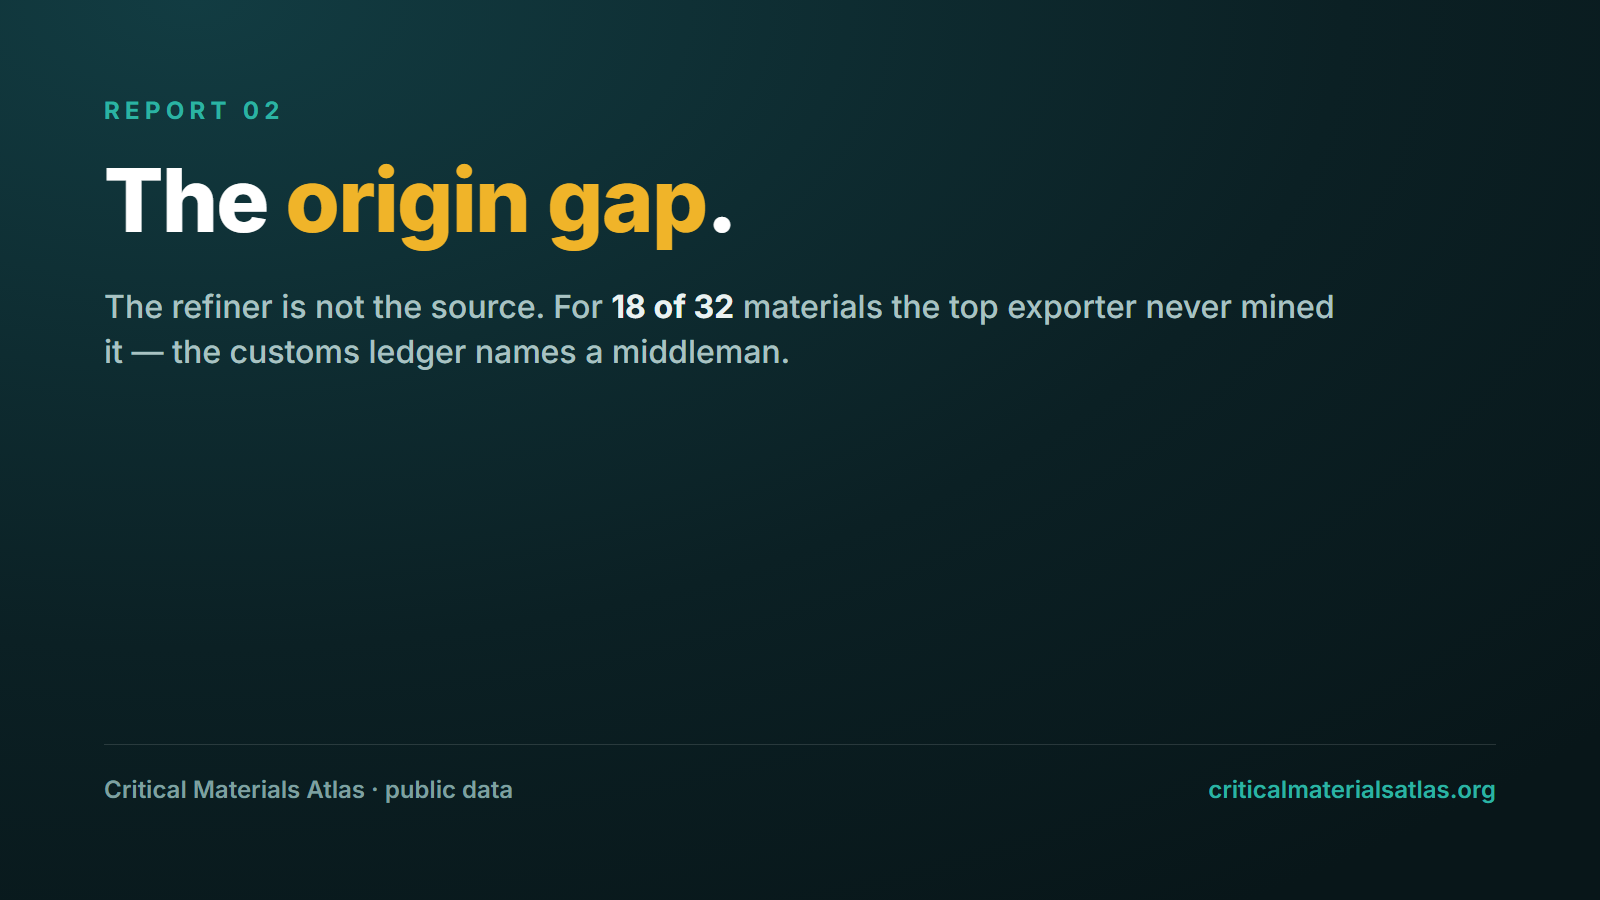
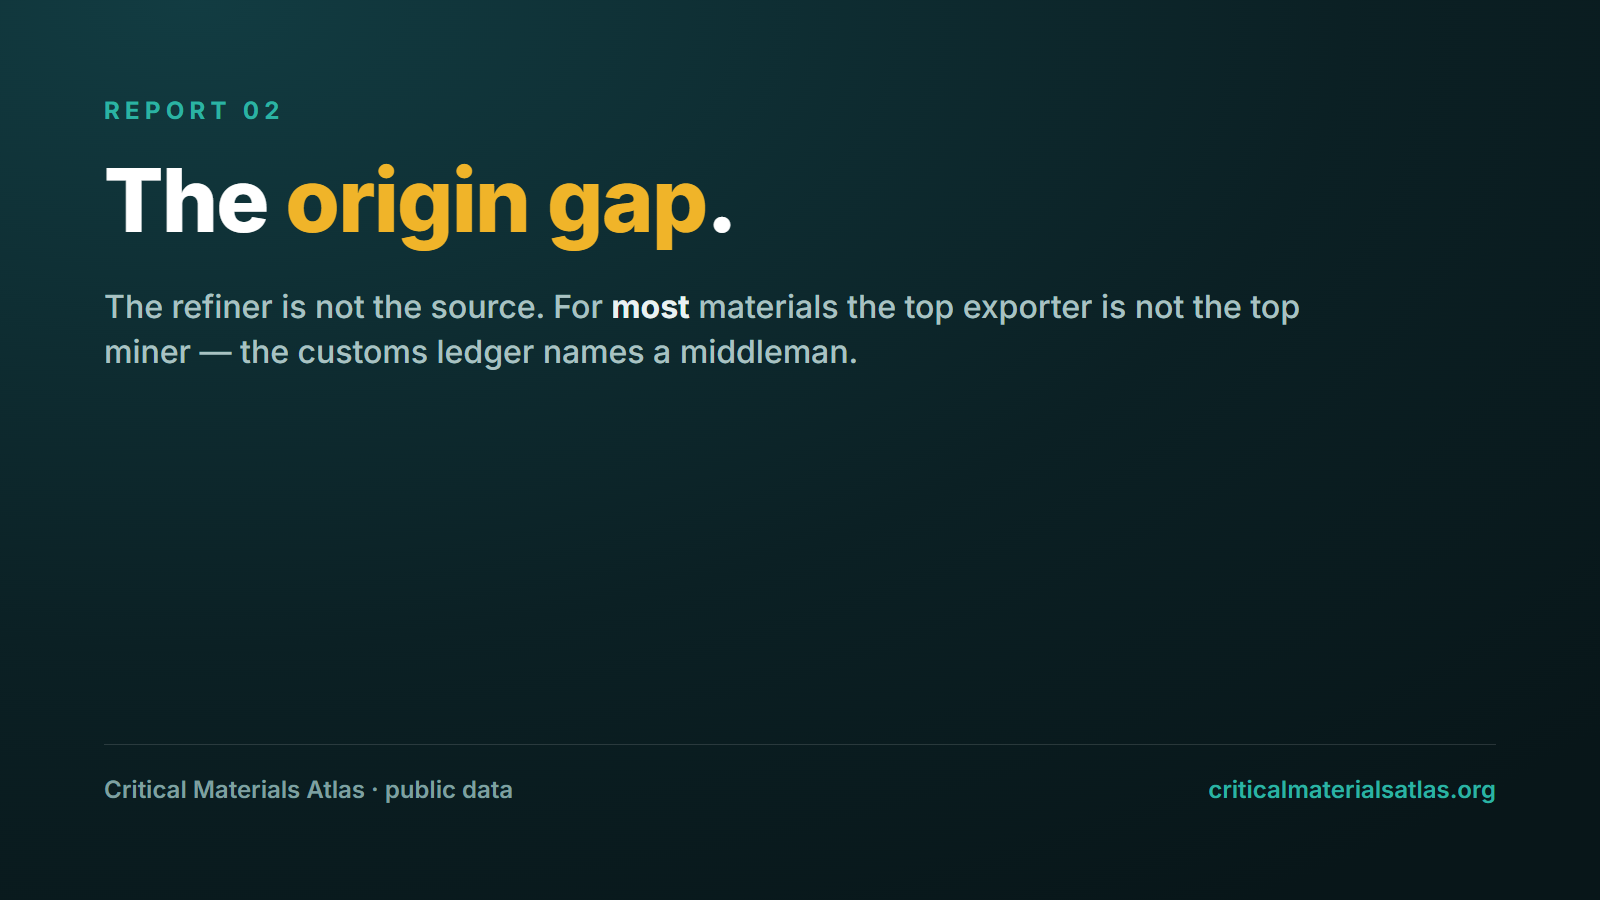
Share cards: the chokepoint and origin-gap headlines in words, not counts
The chokepoint card said 4 of 58 chokepoints are geological (the map now has 5); the Report 02
card said 18 of 32 materials (the store has 16 of the atlas materials tested, 35 in the widened
set). Both now say it in words: 'only a few', 'most'. The fact check now covers the share cards,
which are the link previews of live pages.

Changed region(s): [[0.0625, 0.3111, 0.8438, 0.4044]]

diff --git a/share/card-chokepoint.html b/share/card-chokepoint.html
@@ -8,4 +8,4 @@
  .sub b{color:#eaf2f2;font-weight:700}
  .spacer{flex:1}
  .foot{display:flex;justify-content:space-between;align-items:center;font-size:24px;color:#7fa0a0;font-weight:600;border-top:1px solid rgba(255,255,255,.13);padding-top:30px}
- .foot .u{color:#2bb3a3}</style></head><body><div class="card"><div class="eyebrow">The Chokepoint Map</div><div class="h">Only <span class="amber">4 of 58</span><br>chokepoints are geological.</div><div class="sub">The other <b>54</b> are <i>made</i> — by processing capability, policy, or the physics of a smelter. Anything made can be rebuilt.</div><div class="spacer"></div><div class="foot"><span>Critical Materials Atlas · public data</span><span class="u">criticalmaterialsatlas.org</span></div></div></body></html>
+ .foot .u{color:#2bb3a3}</style></head><body><div class="card"><div class="eyebrow">The Chokepoint Map</div><div class="h">Only <span class="amber">a few</span><br>chokepoints are geological.</div><div class="sub">The rest are <i>made</i> — by processing capability, policy, or the physics of a smelter. Anything made can be rebuilt.</div><div class="spacer"></div><div class="foot"><span>Critical Materials Atlas · public data</span><span class="u">criticalmaterialsatlas.org</span></div></div></body></html>

diff --git a/share/card-r02.html b/share/card-r02.html
@@ -8,4 +8,4 @@
  .sub b{color:#eaf2f2;font-weight:700}
  .spacer{flex:1}
  .foot{display:flex;justify-content:space-between;align-items:center;font-size:24px;color:#7fa0a0;font-weight:600;border-top:1px solid rgba(255,255,255,.13);padding-top:30px}
- .foot .u{color:#2bb3a3}</style></head><body><div class="card"><div class="eyebrow">Report 02</div><div class="h">The <span class="amber">origin gap</span>.</div><div class="sub">The refiner is not the source. For <b>18 of 32</b> materials the top exporter never mined it — the customs ledger names a middleman.</div><div class="spacer"></div><div class="foot"><span>Critical Materials Atlas · public data</span><span class="u">criticalmaterialsatlas.org</span></div></div></body></html>
+ .foot .u{color:#2bb3a3}</style></head><body><div class="card"><div class="eyebrow">Report 02</div><div class="h">The <span class="amber">origin gap</span>.</div><div class="sub">The refiner is not the source. For <b>most</b> materials the top exporter is not the top miner — the customs ledger names a middleman.</div><div class="spacer"></div><div class="foot"><span>Critical Materials Atlas · public data</span><span class="u">criticalmaterialsatlas.org</span></div></div></body></html>

diff --git a/check_facts.py b/check_facts.py
@@ -22,8 +22,8 @@ browser, but compares nothing). A fact stated in words no phrase here matches. A
 registered: when a number drifts between pages, add the fact here in the same commit as the fix.
 
 DATED RECORDS keep their numbers by rule (a published document is not rewritten; it gets a dated
-note): the reports, the technical note, the review, the updates log, the share cards and the social
-posts. They are listed in DATED and not checked. Anything else that legitimately differs goes in ALLOW
+note): the reports, the technical note, the review, the updates log and the social posts. The
+share cards are checked: they are the link previews of live pages. They are listed in DATED and not checked. Anything else that legitimately differs goes in ALLOW
 with its reason.
 """
 import html
@@ -43,7 +43,8 @@ def _j(p):
 
 def DATED(p):
     b = os.path.basename(p)
-    return (b.startswith('report-') or p.startswith(('share/', 'out/social/'))
+    # share/ cards are NOT dated: they are the link previews of live pages (fixed 23 Nov 2026)
+    return (b.startswith('report-') or p.startswith('out/social/')
             or b in {'technical-note.html', 'review.html', 'updates.html'})
 
 
